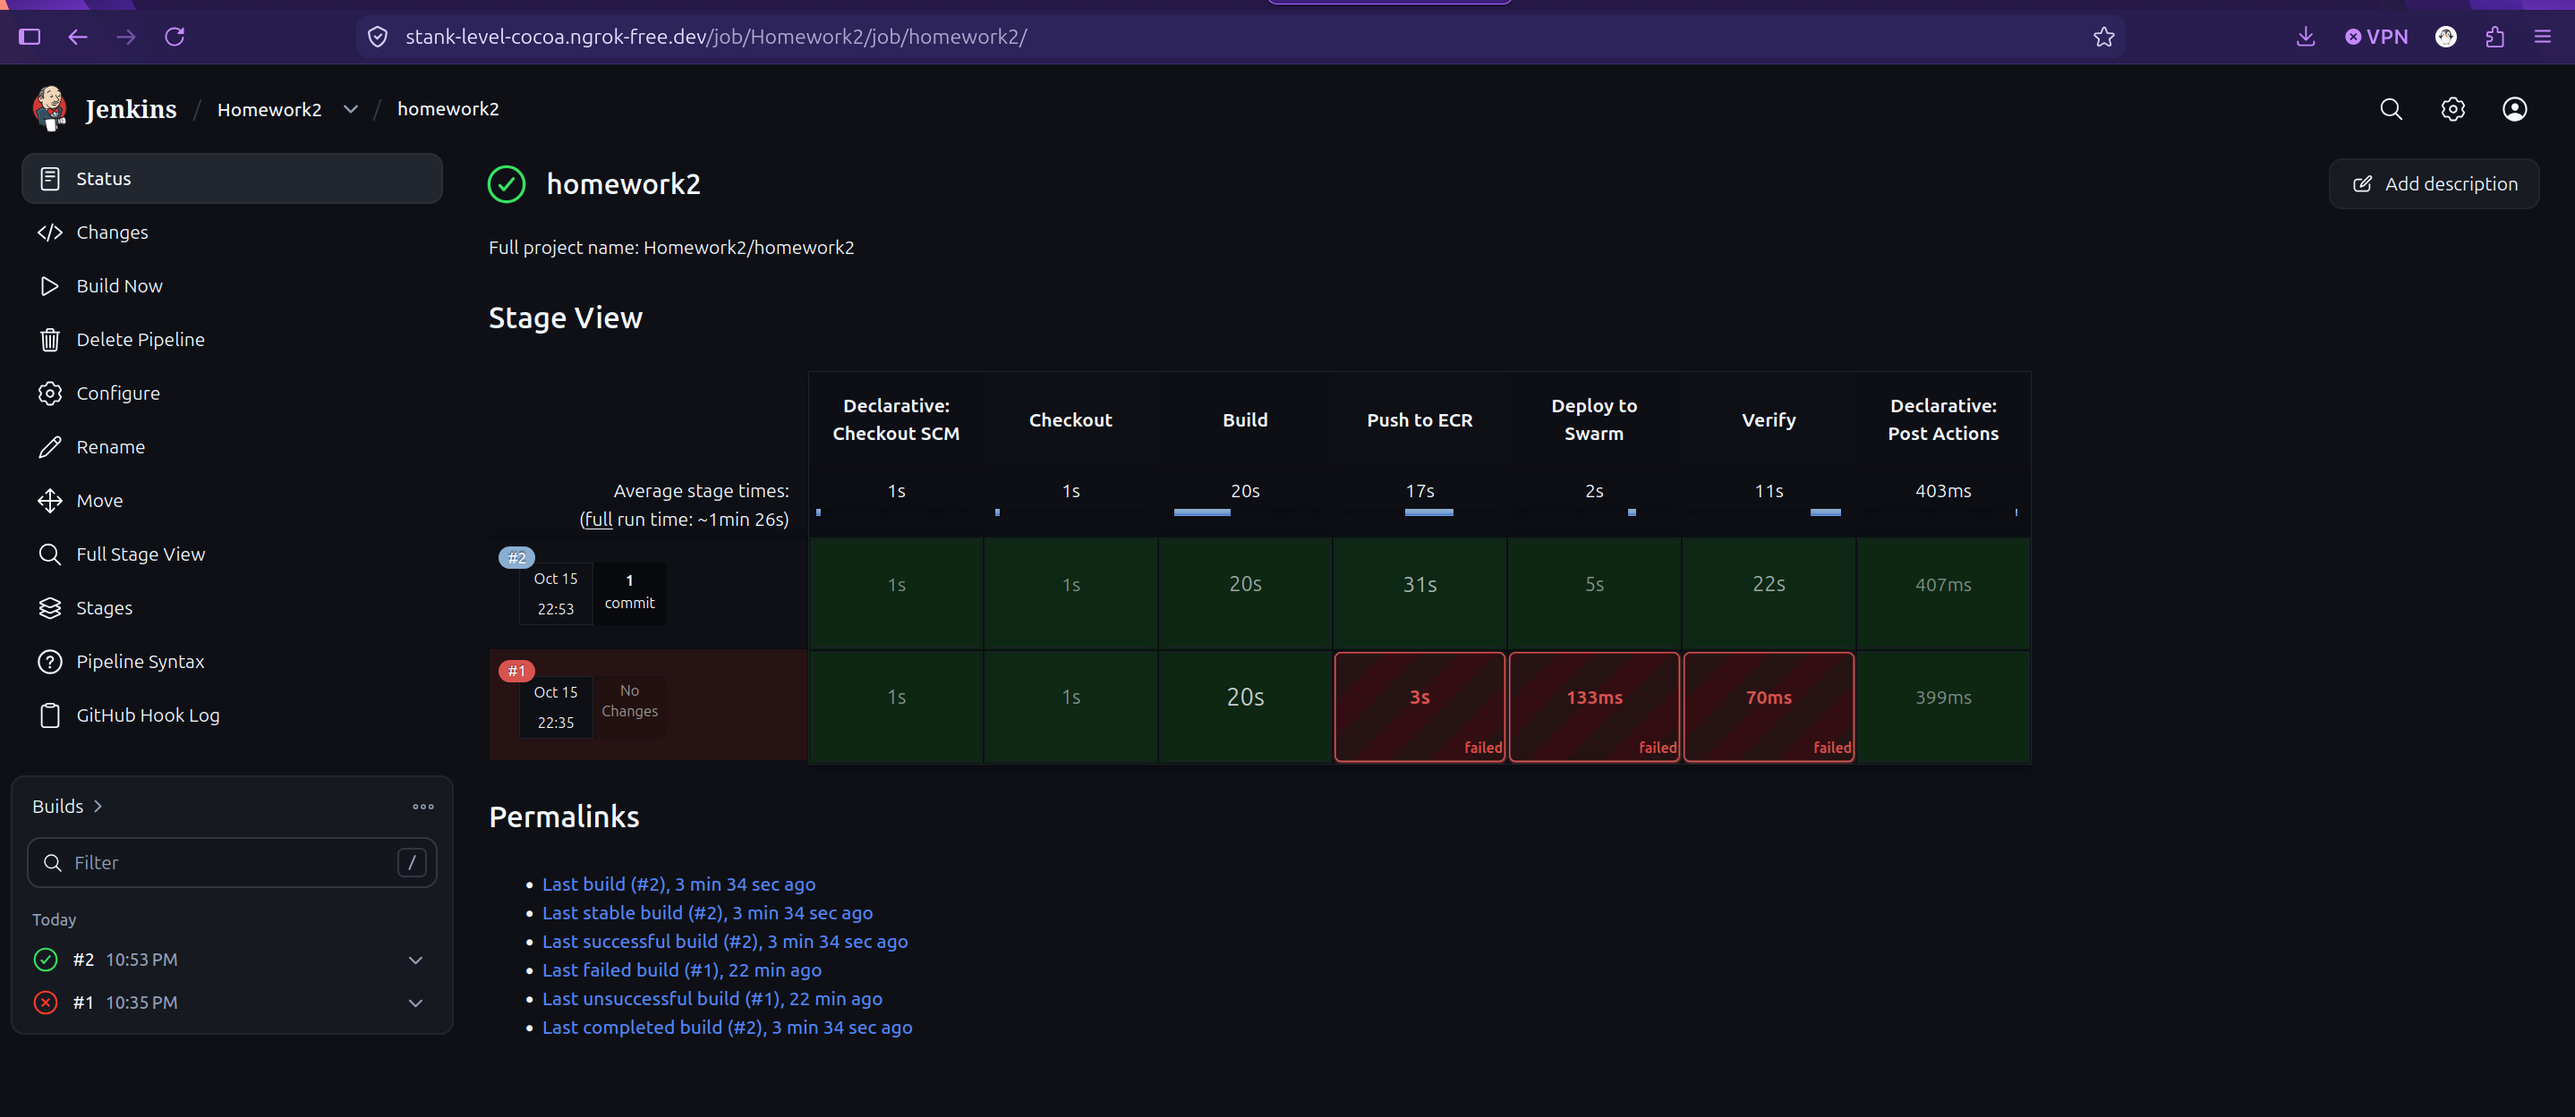
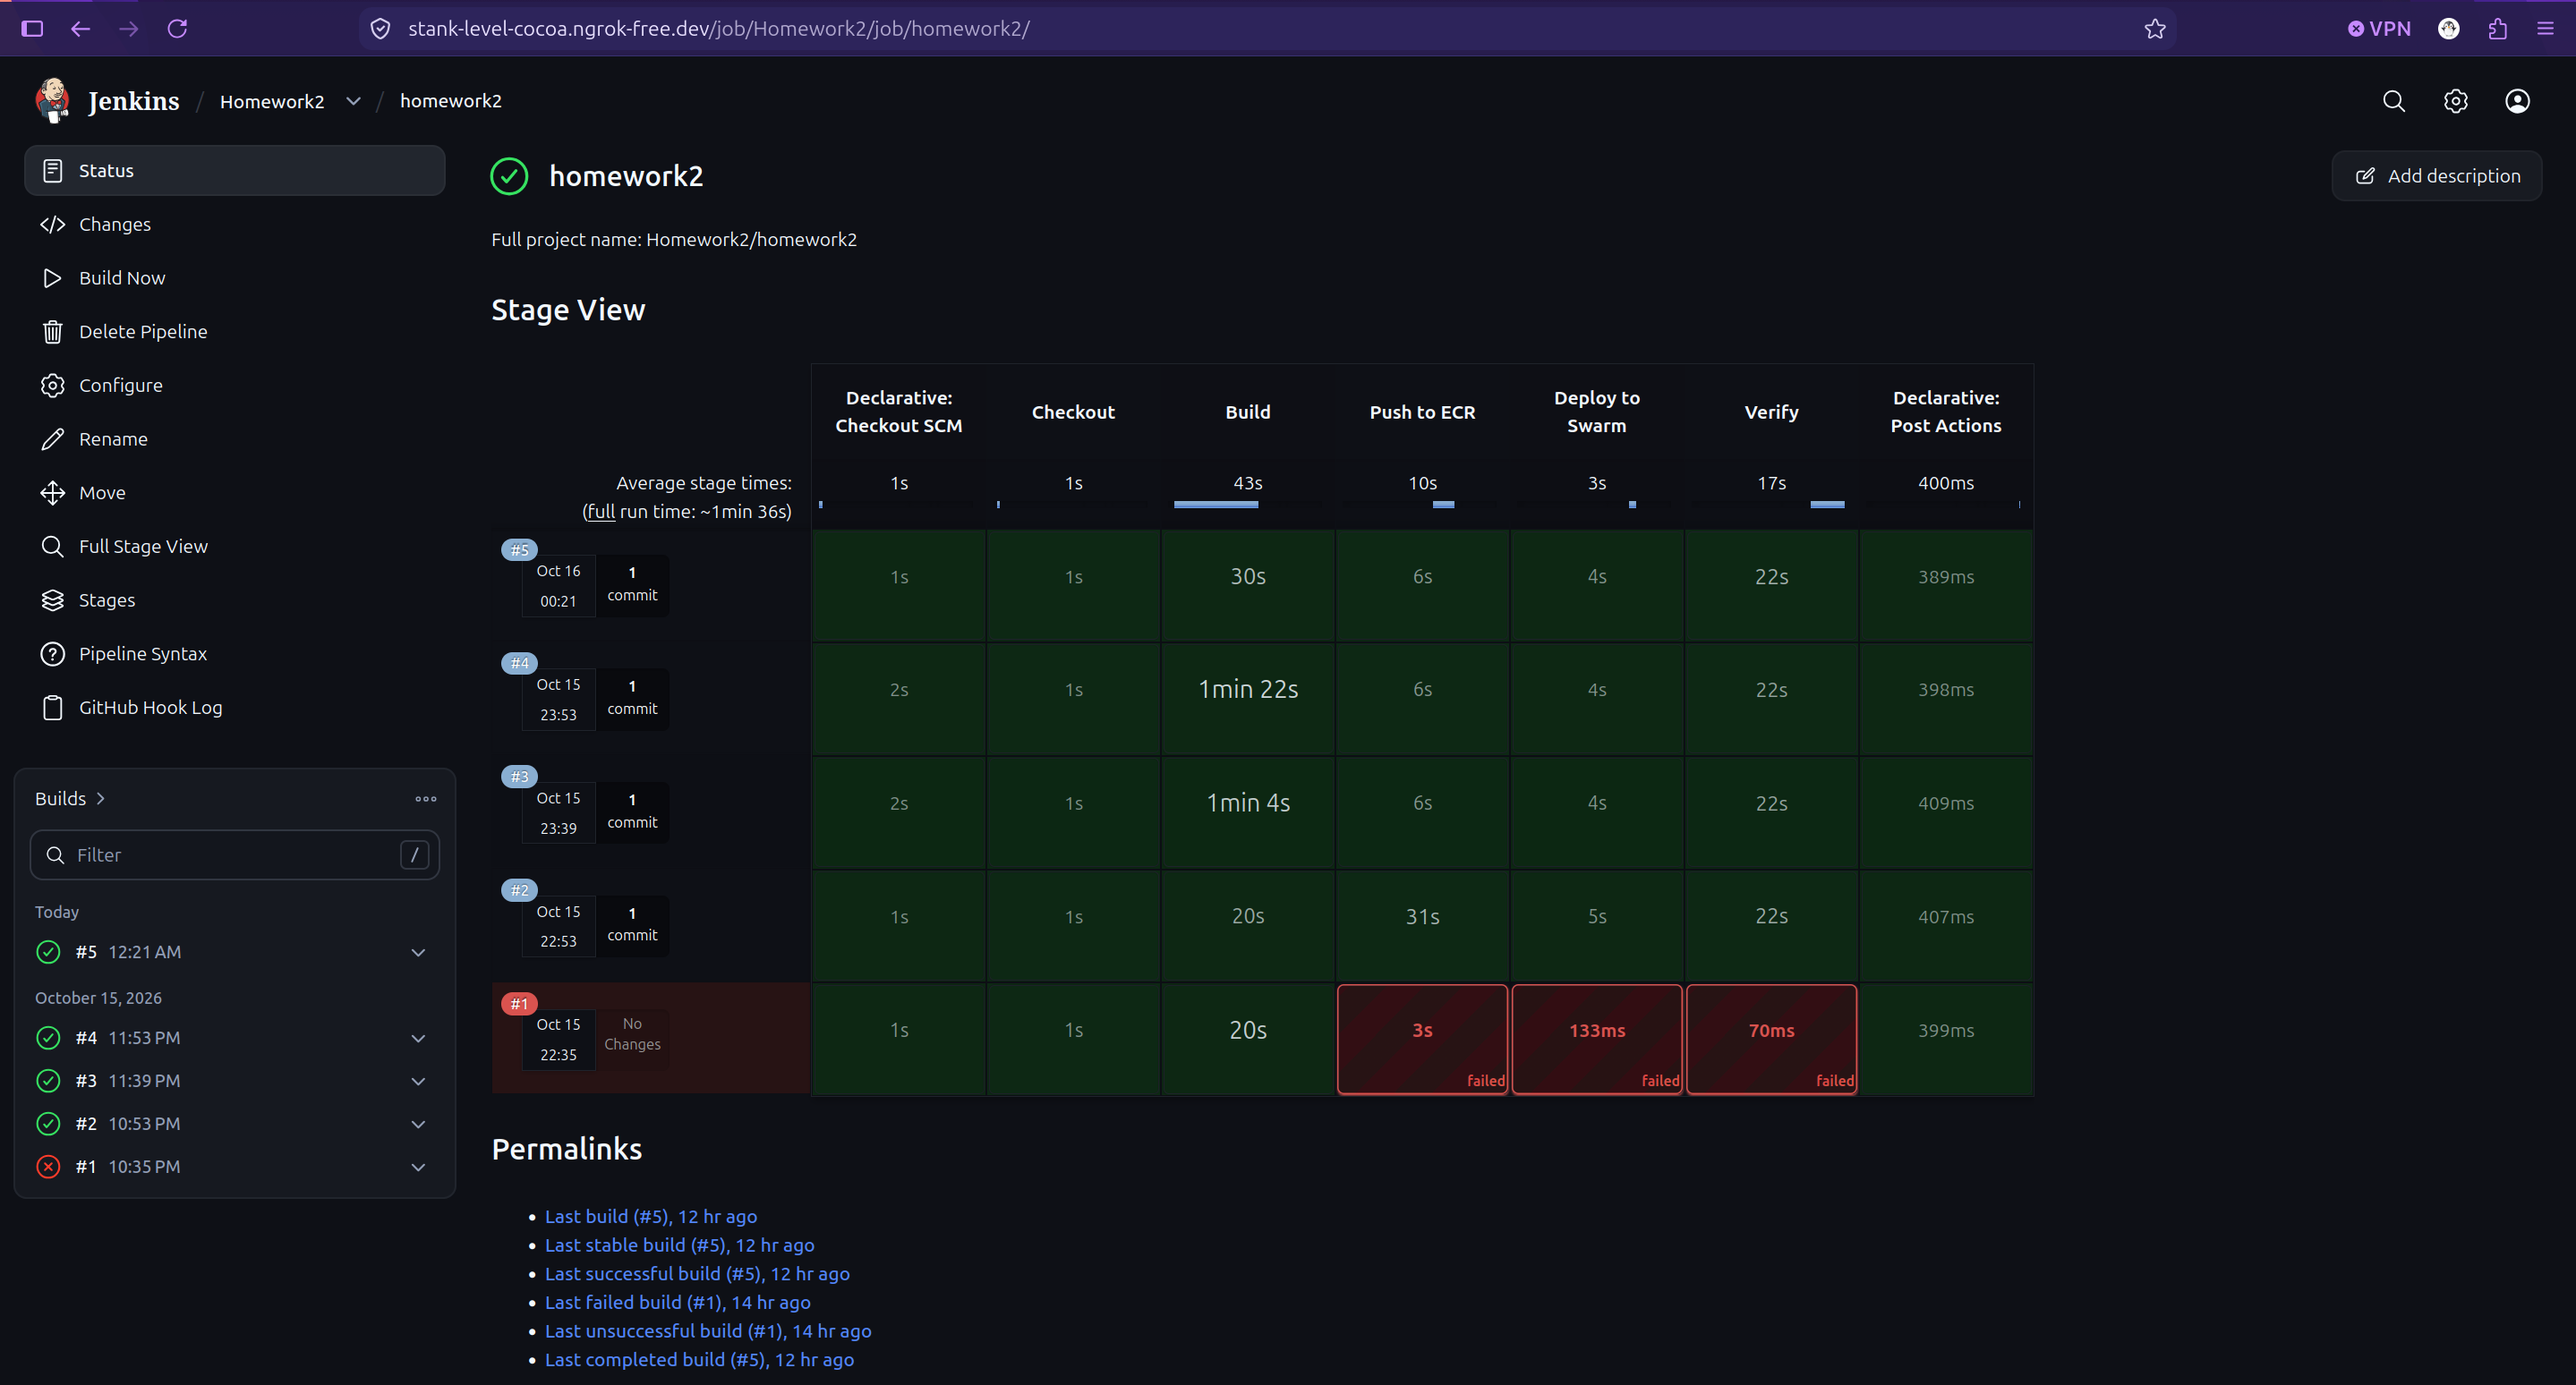
Change Add Elastic IP to server and Update Screenshots

diff --git a/README.md b/README.md
@@ -3,7 +3,7 @@
 **Name:** SENG KIMOUN
 **GitHub repository:** https://github.com/unixquantum101/kimoun-hw2.git
 **ECR repository:** `780603797333.dkr.ecr.ap-southeast-1.amazonaws.com/hw2-flask-app` (private, region `ap-southeast-1`)
-**Live deployment:** http://47.128.220.36/
+**Live deployment:** http://18.143.120.217/
 
 ---
 
@@ -58,8 +58,8 @@ docker run --rm -p 8088:5000 hw2-local
 |---|---|
 | Jenkins | Local Ubuntu Desktop 24.04, exposed with ngrok (`https://stank-level-cocoa.ngrok-free.dev`) |
 | ECR | Private repo `hw2-flask-app`, region `ap-southeast-1` |
-| Swarm manager | EC2 `t3.micro`, Ubuntu, public IP `47.128.220.36` |
-| Swarm worker | EC2 `t3.micro`, Ubuntu, public IP `54.169.19.47` |
+| Swarm manager | EC2 `t3.micro`, Ubuntu, public IP `18.143.120.217` |
+| Swarm worker | EC2 `t3.micro`, Ubuntu, public IP `52.221.163.83` |
 
 **Security group rules** (one group shared by both nodes):
 
@@ -104,7 +104,7 @@ docker run --rm -p 8088:5000 hw2-local
    docker node ls                       # manager + worker, both Ready
    docker service ps hw2_web            # new tasks Running, old ones Shutdown
    ```
-5. Open `http://47.128.220.36/` — the page shows the new build number and commit SHA.
+5. Open `http://18.143.120.217/` — the page shows the new build number and commit SHA.
 
 ## 8. Screenshots
 
